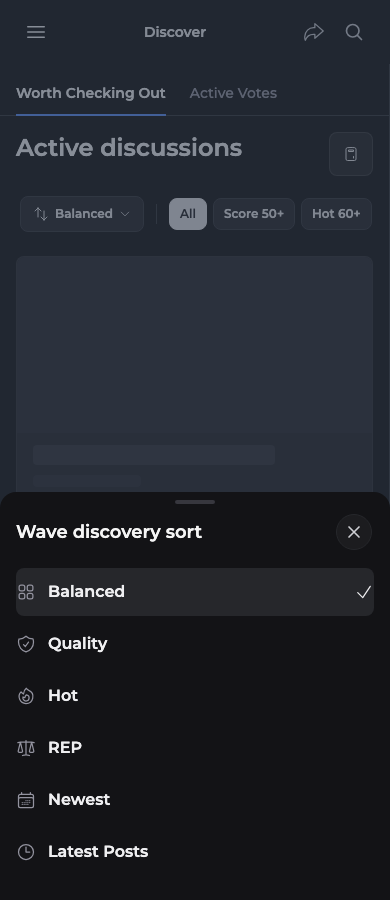
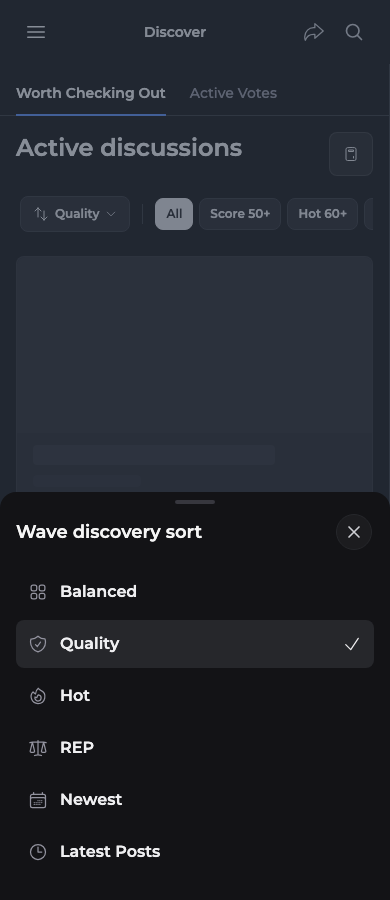
Add breathing room inside Discover sort options

diff --git a/components/compact-menu/constants.ts b/components/compact-menu/constants.ts
@@ -28,7 +28,7 @@ export const DEFAULT_ANCHOR: NonNullable<MenuItemsProps["anchor"]> =
   "bottom end";
 
 export const MOBILE_ACTION_ITEM_CLASSES =
-  "tw-group tw-flex tw-w-full tw-items-start tw-gap-3 tw-rounded-lg tw-border-0 tw-bg-transparent tw-px-0 tw-py-2 tw-text-left tw-text-base tw-font-medium tw-text-iron-200 tw-transition-colors tw-duration-200 active:tw-bg-iron-800 disabled:tw-cursor-not-allowed disabled:tw-opacity-50 motion-reduce:tw-transition-none";
+  "tw-group tw-flex tw-w-full tw-items-start tw-gap-3 tw-rounded-lg tw-border-0 tw-bg-transparent tw-py-2 tw-text-left tw-text-base tw-font-medium tw-text-iron-200 tw-transition-colors tw-duration-200 active:tw-bg-iron-800 disabled:tw-cursor-not-allowed disabled:tw-opacity-50 motion-reduce:tw-transition-none";
 
 export const MOBILE_ACTION_ICON_CLASSES =
   "tw-flex tw-h-6 tw-shrink-0 tw-items-center tw-justify-center tw-text-iron-400 tw-transition-colors desktop-hover:group-hover:tw-text-white motion-reduce:tw-transition-none";

diff --git a/components/waves/discovery/DiscoverWaveControls.tsx b/components/waves/discovery/DiscoverWaveControls.tsx
@@ -242,7 +242,7 @@ export function DiscoverWaveControls({
                 onSortChange(option.value);
                 setSortOpen(false);
               }}
-              className={`${MOBILE_ACTION_ITEM_CLASSES} tw-min-h-12 aria-pressed:tw-bg-iron-800 focus-visible:tw-outline focus-visible:tw-outline-2 focus-visible:tw-outline-offset-2 focus-visible:tw-outline-primary-400`}
+              className={`${MOBILE_ACTION_ITEM_CLASSES} tw-min-h-12 tw-px-3 aria-pressed:tw-bg-iron-800 focus-visible:tw-outline focus-visible:tw-outline-2 focus-visible:tw-outline-offset-2 focus-visible:tw-outline-primary-400`}
             >
               <span className={`${MOBILE_ACTION_ICON_CLASSES} tw-self-center`}>
                 <ScoreSortIcon sort={option.value} className="tw-size-5" />

diff --git a/components/brain/my-stream/tabs/MyStreamWaveCreateActionsMenu.tsx b/components/brain/my-stream/tabs/MyStreamWaveCreateActionsMenu.tsx
@@ -138,7 +138,7 @@ export default function MyStreamWaveCreateActionsMenu({
             trigger={trigger}
             triggerClassName={buttonClassName}
             items={menuItems}
-            itemClassName={MOBILE_ACTION_ITEM_CLASSES}
+            itemClassName={`${MOBILE_ACTION_ITEM_CLASSES} tw-px-0`}
           />
         ) : (
           <CompactMenu
